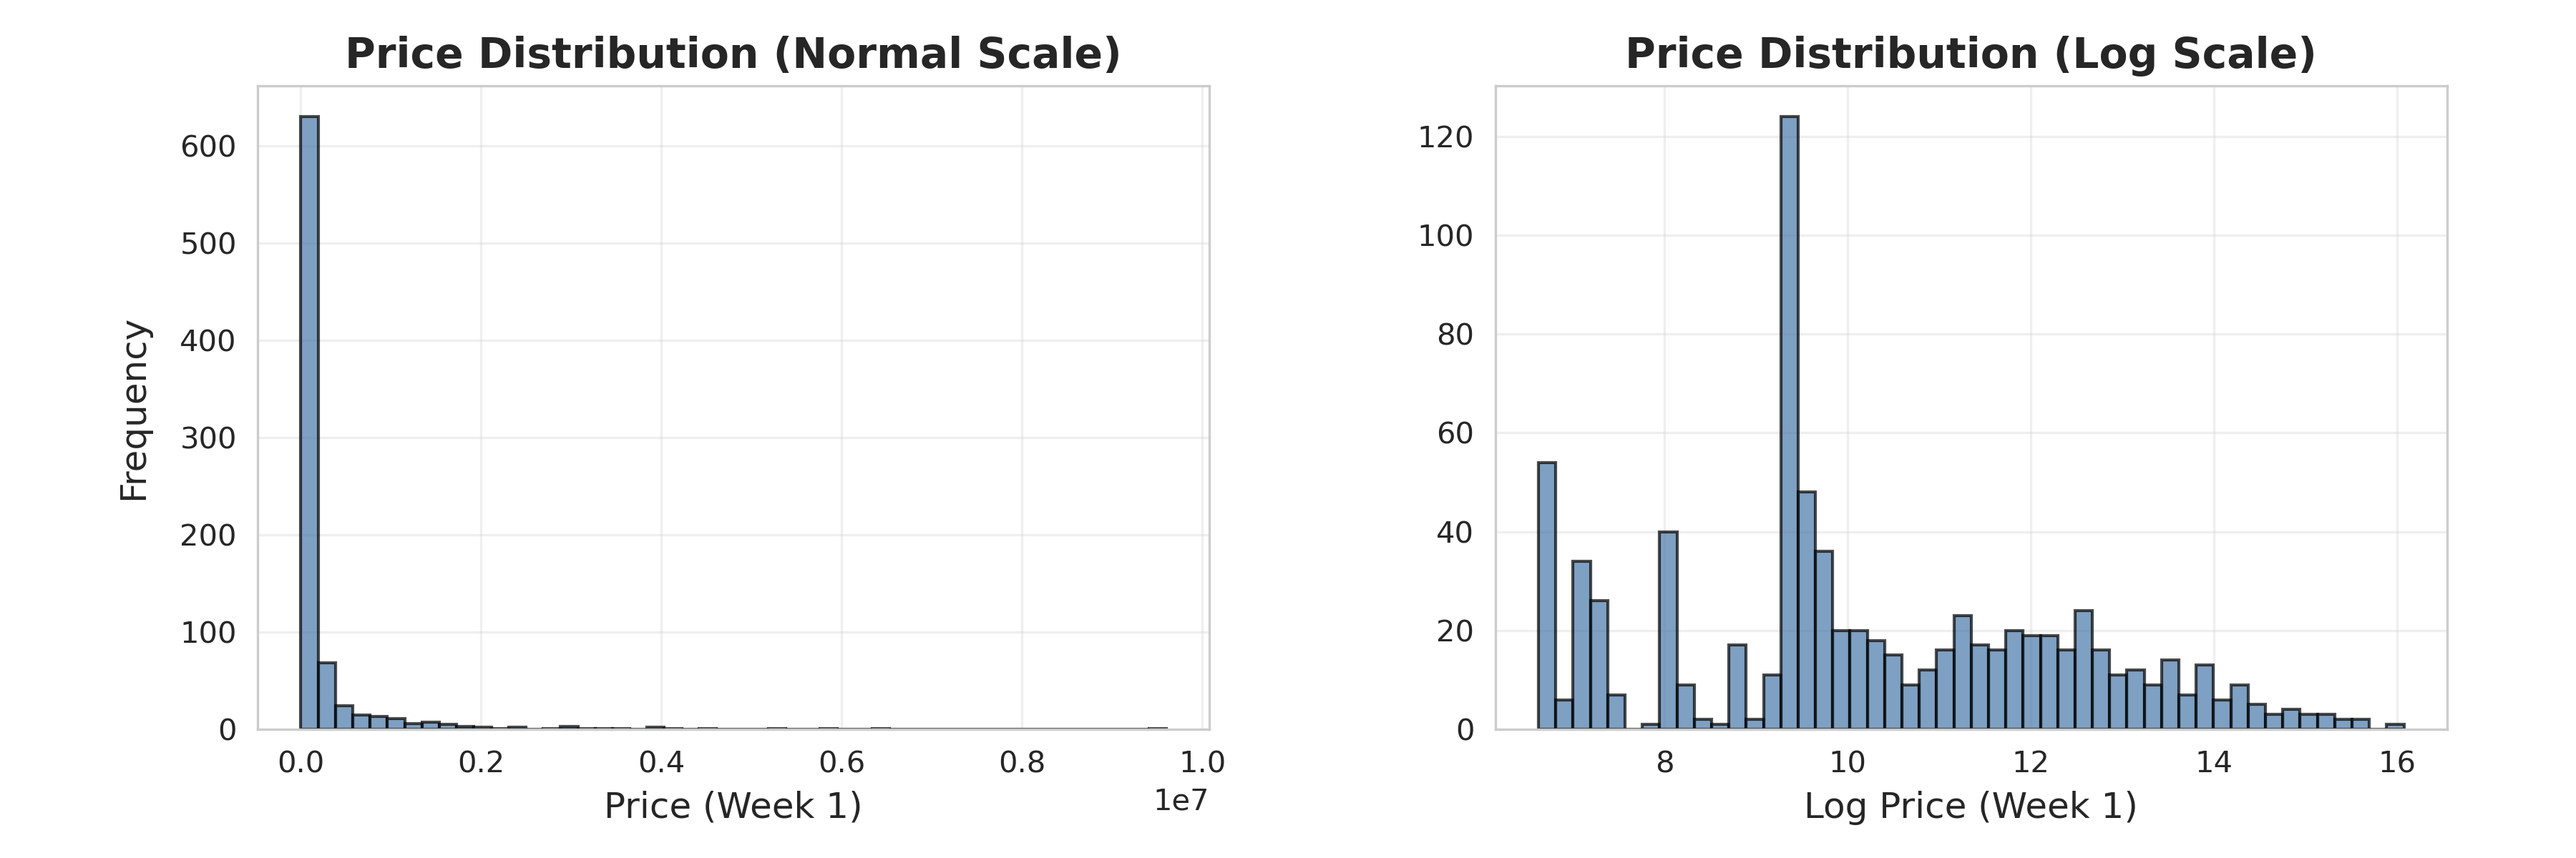
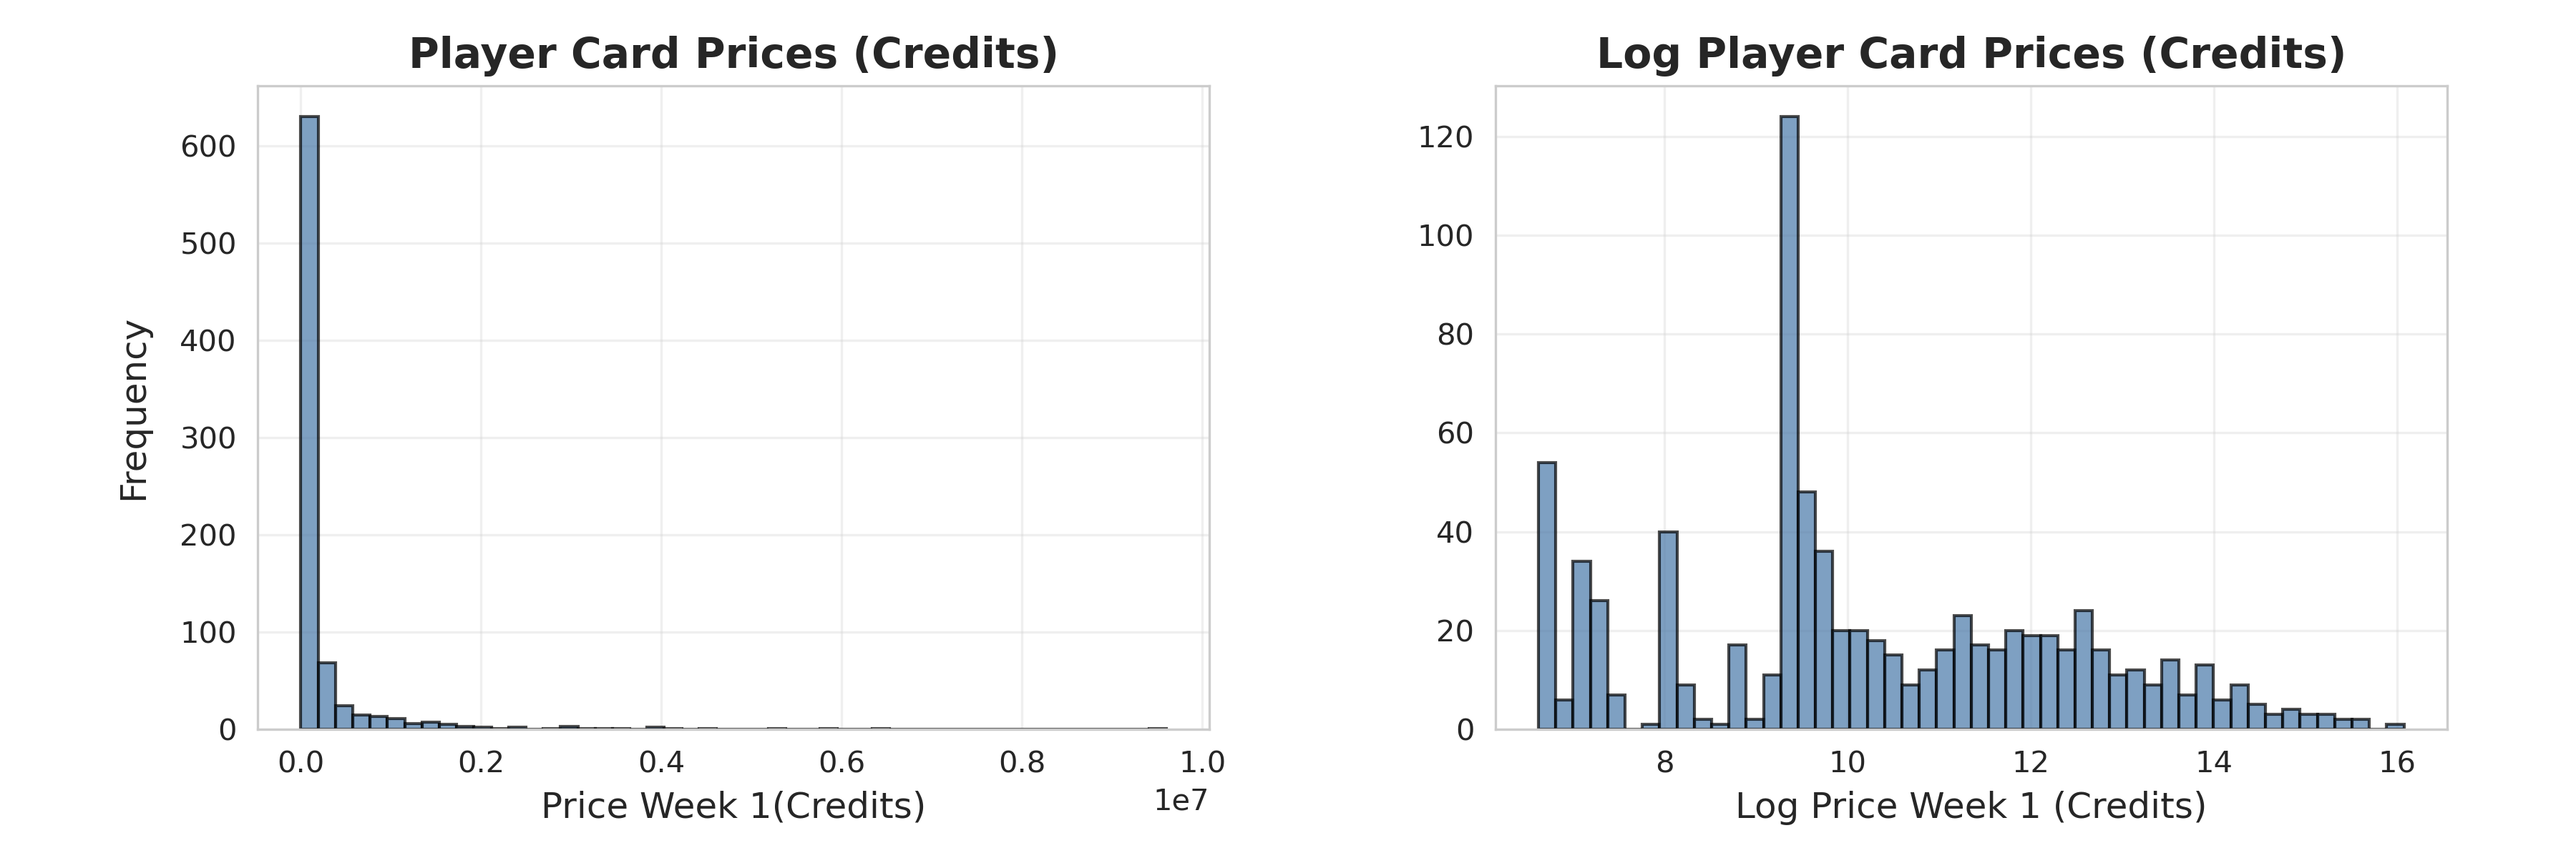
Re-updated all files that generated figures and updated figures with constistent formatting and labeling

diff --git a/src/analysis/eda_analysis.py b/src/analysis/eda_analysis.py
@@ -54,10 +54,10 @@ def main() -> None:
         axes[0].hist(
             df["price_w1"], bins=50, color="#4878A8", edgecolor="black", alpha=0.7
         )
-        axes[0].set_xlabel("Price (Week 1)", fontsize=12)
+        axes[0].set_xlabel("Price Week 1(Credits)", fontsize=12)
         axes[0].set_ylabel("Frequency", fontsize=12, labelpad=10)
         axes[0].set_title(
-            "Price Distribution (Normal Scale)", fontsize=14, fontweight="bold"
+            "Player Card Prices (Credits)", fontsize=14, fontweight="bold"
         )
         axes[0].tick_params(labelsize=10)
         axes[0].grid(alpha=0.3)
@@ -69,9 +69,9 @@ def main() -> None:
             edgecolor="black",
             alpha=0.7,
         )
-        axes[1].set_xlabel("Log Price (Week 1)", fontsize=12)
+        axes[1].set_xlabel("Log Price Week 1 (Credits)", fontsize=12)
         axes[1].set_title(
-            "Price Distribution (Log Scale)", fontsize=14, fontweight="bold"
+            "Log Player Card Prices (Credits)", fontsize=14, fontweight="bold"
         )
         axes[1].tick_params(labelsize=10)
         axes[1].grid(alpha=0.3)
@@ -98,7 +98,7 @@ def main() -> None:
 
         plt.xlabel("Overall Rating", fontsize=12, labelpad=10)
         plt.yscale("log")
-        plt.ylabel("Price (Week 1, Log Scale)", fontsize=12, labelpad=10)
+        plt.ylabel("Log Price Week 1 (Credits)", fontsize=12, labelpad=10)
         plt.title(
             "Overall Rating vs Price by Card Category", fontsize=14, fontweight="bold"
         )
@@ -130,7 +130,7 @@ def main() -> None:
         plt.title("Price by Card Category", fontsize=14, fontweight="bold")
         plt.suptitle("")
         plt.yscale("log")
-        plt.ylabel("Price (Week 1, Log Scale)", fontsize=12, labelpad=10)
+        plt.ylabel("Log Price Week 1 (Credits)", fontsize=12, labelpad=10)
         plt.xlabel("Card Category", fontsize=12, labelpad=10)
         plt.xticks(rotation=0)
         plt.gca().tick_params(labelsize=10)
@@ -160,7 +160,7 @@ def main() -> None:
         for col in position_cols:
             if col in df.columns:
                 players_in_pos = df[df[col] == 1]
-                position_prices.append(players_in_pos["price_w1"].mean())
+                position_prices.append(players_in_pos["price_w1"].median())
             else:
                 position_prices.append(0)
 
@@ -172,9 +172,8 @@ def main() -> None:
             edgecolor="black",
             alpha=0.7,
         )
-        plt.xlabel("Position Cluster", fontsize=12, labelpad=10)
-        plt.ylabel("Average Price (Week 1)", fontsize=12, labelpad=10)
-        plt.title("Average Price by Position Cluster", fontsize=14, fontweight="bold")
+        plt.ylabel("Median Price (Credits)", fontsize=12, labelpad=10)
+        plt.title("Median Price by Position Cluster", fontsize=14, fontweight="bold")
         plt.xticks(rotation=45, ha="right")
         plt.gca().tick_params(labelsize=10)
         plt.grid(axis="y", alpha=0.3)
@@ -247,7 +246,7 @@ def main() -> None:
         axes[0, 0].scatter(df["pace"], df["price_w1"], alpha=0.5, s=30, color="#5BA85B")
         axes[0, 0].set_yscale("log")
         axes[0, 0].set_xlabel("Pace", fontsize=12)
-        axes[0, 0].set_ylabel("Price (Week 1, Log Scale)", fontsize=12, labelpad=10)
+        axes[0, 0].set_ylabel("Log Price Week 1 (Credits)", fontsize=12, labelpad=10)
         axes[0, 0].set_title("Pace vs Price", fontsize=14, fontweight="bold")
 
         # Dribbling
@@ -264,7 +263,7 @@ def main() -> None:
         )
         axes[1, 0].set_yscale("log")
         axes[1, 0].set_xlabel("Skill Moves", fontsize=12)
-        axes[1, 0].set_ylabel("Price (Week 1, Log Scale)", fontsize=12, labelpad=10)
+        axes[1, 0].set_ylabel("Log Price Week 1 (Credits)", fontsize=12, labelpad=10)
         axes[1, 0].set_title("Skill Moves vs Price", fontsize=14, fontweight="bold")
 
         # Weak Foot

diff --git a/src/analysis/ols_visualizations.py b/src/analysis/ols_visualizations.py
@@ -99,10 +99,10 @@ def main() -> None:
         ax.set_yticks(range(len(top20)))
         ax.set_yticklabels(top20["feature"], fontsize=10)  # Set tick size
         ax.set_xlabel(
-            "Coefficient (with 95% Confidence Interval)", fontsize=12, labelpad=10
+            "Coefficient Value (with 95% Confidence Interval)", fontsize=12, labelpad=10
         )
         ax.set_title(
-            "OLS Coefficients with Confidence Intervals (Top 20 Features)",
+            "Top 20 OLS Coefficients for Log Player Card Prices with 95% Confidence Intervals",
             fontsize=14,
             fontweight="bold",
         )
@@ -125,16 +125,12 @@ def main() -> None:
         logger.info("  → Saved: 07_ols_coefficient_plot.png")
 
         # Figure 2: Top feature bar chart
-        # Get top positive and negative features
-        positive_features = df_features[df_features["coefficient"] > 0].nlargest(
-            17, "coefficient"
-        )
-        negative_features = df_features[df_features["coefficient"] < 0].nsmallest(
-            3, "coefficient"
-        )
+        # Get top 10 and bottom 10 features
+        top_10 = df_features.nlargest(10, "coefficient")
+        bottom_10 = df_features.nsmallest(10, "coefficient")
 
         # Combine
-        combined = pd.concat([positive_features, negative_features])
+        combined = pd.concat([top_10, bottom_10])
         combined = combined.sort_values("coefficient")
 
         _, ax = plt.subplots(figsize=(12, 8))
@@ -168,7 +164,7 @@ def main() -> None:
         ax.set_xlabel("Coefficient Value", fontsize=12, labelpad=10)
         ax.set_xlim(-0.7, 3.3)
         ax.set_title(
-            "Top Features Driving Player Prices (OLS Regression)",
+            "Top 10 and Bottom 10 OLS Coefficients for Log Player Card Prices",
             fontsize=14,
             fontweight="bold",
         )
@@ -210,9 +206,7 @@ def main() -> None:
         # Plot 1: Residuals vs Fitted
         axes[0, 0].scatter(fitted_values, residuals, alpha=0.5, s=30, color="#4878A8")
         axes[0, 0].axhline(y=0, color="#D32F2F", linestyle="--", linewidth=2)
-        axes[0, 0].set_xlabel(
-            "Fitted Values (Log Scale Prices)", fontsize=12, labelpad=10
-        )
+        axes[0, 0].set_xlabel("Fitted Log Price (Credits)", fontsize=12, labelpad=10)
         axes[0, 0].set_ylabel("Residuals", fontsize=12, labelpad=10)
         axes[0, 0].set_title("Residuals vs Fitted", fontsize=12, fontweight="bold")
         axes[0, 0].tick_params(labelsize=10)
@@ -243,9 +237,7 @@ def main() -> None:
             s=30,
             color="#4878A8",
         )
-        axes[1, 0].set_xlabel(
-            "Fitted Values (Log Scale Prices)", fontsize=12, labelpad=10
-        )
+        axes[1, 0].set_xlabel("Fitted Log Price (Credits)", fontsize=12, labelpad=10)
         axes[1, 0].set_ylabel("Standardized Residuals", fontsize=12, labelpad=10)
         axes[1, 0].set_title("Scale-Location", fontsize=12, fontweight="bold")
         axes[1, 0].tick_params(labelsize=10)

diff --git a/src/analysis/shap_analysis.py b/src/analysis/shap_analysis.py
@@ -159,13 +159,13 @@ def main() -> None:
             plot_size=None,
         )
         plt.title(
-            "SHAP Summary Plot: Feature Impact on Price Predictions",
+            "SHAP Summary Plot: Feature Impact on Log Price Prediction",
             fontsize=14,
             fontweight="bold",
             pad=25,
         )
 
-        plt.xlabel("SHAP Value (Impact on Log Scale Price Predictions)", fontsize=12)
+        plt.xlabel("SHAP Value (Impact on Log Price Prediction)", fontsize=12)
         plt.tick_params(labelsize=10)
         plt.subplots_adjust(left=0.2, right=1, top=0.9, bottom=0.1)
 
@@ -188,7 +188,7 @@ def main() -> None:
             color="#4878A8",
         )
         plt.title(
-            "SHAP Feature Importance: Mean Absolute Impact",
+            "SHAP Feature Importance: Mean Absolute Impact on Log Price Prediction",
             fontsize=14,
             fontweight="bold",
             pad=25,
@@ -196,7 +196,7 @@ def main() -> None:
 
         plt.xlim(0, 1)
         plt.xlabel(
-            "Mean |SHAP Value| (Average Impact on Price Prediction)", fontsize=12
+            "Mean |SHAP Value| (Average Impact on Log Price Prediction)", fontsize=12
         )
         plt.tick_params(labelsize=10)
         plt.subplots_adjust(left=0.2, right=0.95, top=0.9, bottom=0.1)

diff --git a/main.py b/main.py
@@ -176,12 +176,12 @@ def main() -> None:
         print(" - Tables: results/tables (5 CSV files)")
         print(" - Predictions: results/predictions (4 CSV files)")
         print("\nLines of code:")
-        print(" - Scrapers: 469 lines (not run on this file)")
+        print(" - Scrapers: 470 lines (not run on this file)")
         print(" - Preprocessing: 503 lines")
         print(" - Models: 858 lines")
-        print(" - Analysis: 1,574 lines")
-        print(" - Main: 207 lines")
-        print("Total: 3,611 lines (+440 lines of tests)")
+        print(" - Analysis: 1,674 lines")
+        print(" - Main: 206 lines")
+        print("Total: 3,713 lines (+440 lines of tests)")
         print(
             "\nBest Model: XGBoost (R² = 0.956 | RMSE = 137,993 credits | MAE = 42,997 credits)"
         )

diff --git a/src/analysis/model_comparison.py b/src/analysis/model_comparison.py
@@ -86,7 +86,7 @@ def main() -> None:
         df.to_csv(output_path, index=False)
 
         # Summary
-        logger.info("Model Performance Comparison (Sorted by R²):")
+        logger.info("Model Performance Comparison on Test Set (Sorted by R²):")
         logger.info("-" * 80)
         logger.info(
             "%-6s %-36s %8s %12s %12s %14s",
@@ -141,7 +141,7 @@ def main() -> None:
         )
 
         ax.set_title(
-            "Model Performance Comparison (Sorted by R²)",
+            "Model Performance Comparison on Test Set (Sorted by R²)",
             fontsize=14,
             fontweight="bold",
             pad=25,

diff --git a/src/analysis/market_inefficiencies.py b/src/analysis/market_inefficiencies.py
@@ -115,7 +115,7 @@ def main() -> None:
         ax.set_xlabel("Actual Price W2 (credits)", fontsize=12)
         ax.set_ylabel("Predicted Price W2 (credits)", fontsize=12, labelpad=15)
         ax.set_title(
-            "Market Inefficiency Detection: Actual vs Predicted Prices",
+            "Market Inefficiency Detection: Actual vs Predicted Prices (Log Scale)",
             fontsize=14,
             fontweight="bold",
         )

diff --git a/src/analysis/xgboost_feature_importance.py b/src/analysis/xgboost_feature_importance.py
@@ -145,7 +145,7 @@ def main() -> None:
         ax2.set_ylim([0, 105])
 
         plt.title(
-            "XGBoost Feature Importance with Cumulative Percentage",
+            "XGBoost Feature Importance (Gain) with Cumulative Percentage",
             fontsize=14,
             fontweight="bold",
             pad=20,
